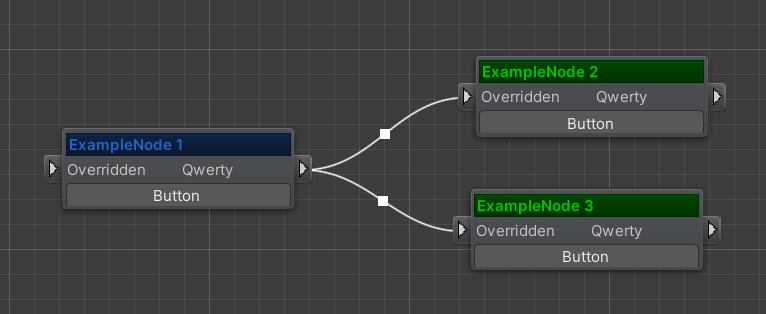
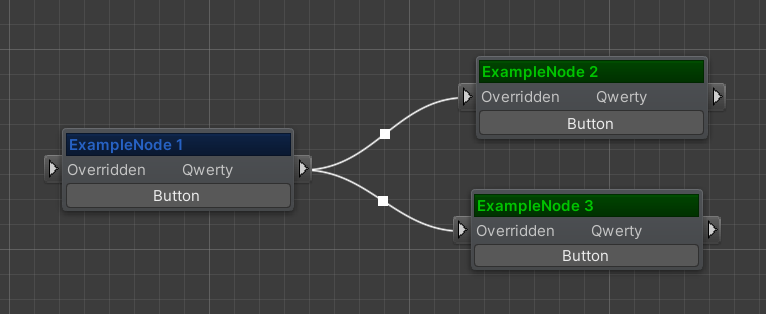
upd README

Changed region(s): [[0.6305, 0.4013, 0.9308, 0.4586], [0.6305, 0.8025, 0.9008, 0.8599], [0.0901, 0.6592, 0.3903, 0.6879]]

diff --git a/Code/Runtime/OlegHcp/NodeBased/README.md b/Code/Runtime/OlegHcp/NodeBased/README.md
@@ -69,7 +69,7 @@ public class ExampleNodeDrawer : NodeDrawer
 {
     protected override float GetHeight(SerializedProperty property)
     {
-        return base.GetHeight(property) * 2f;
+        return base.GetHeight(property) * 2f + EditorGUIUtility.standardVerticalSpacing;
     }
 
     protected override Color GetHeaderColor(bool rootNode)
@@ -79,7 +79,6 @@ public class ExampleNodeDrawer : NodeDrawer
 
     protected override void OnGui(SerializedProperty property, float width)
     {
-        EditorGUIUtility.labelWidth = width * 0.5f;
         EditorGUILayout.LabelField("Overridden", "Qwerty");
         GUILayout.Button("Button");
     }
